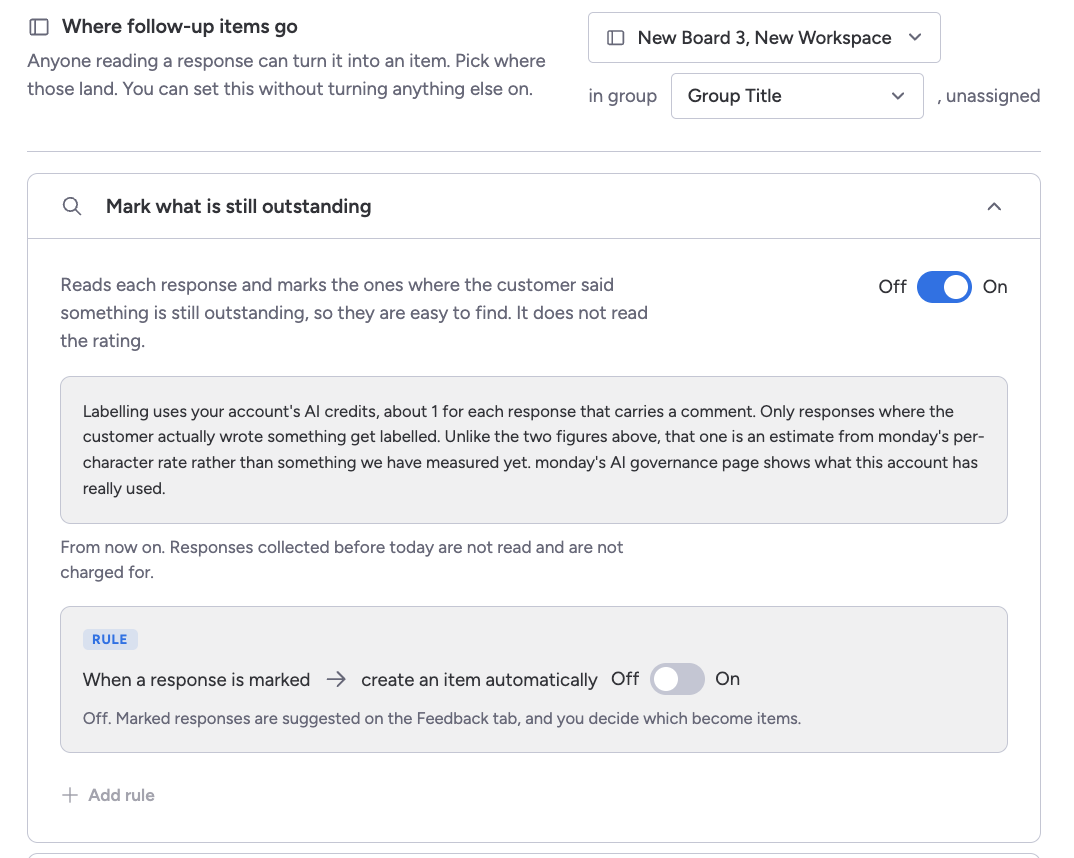
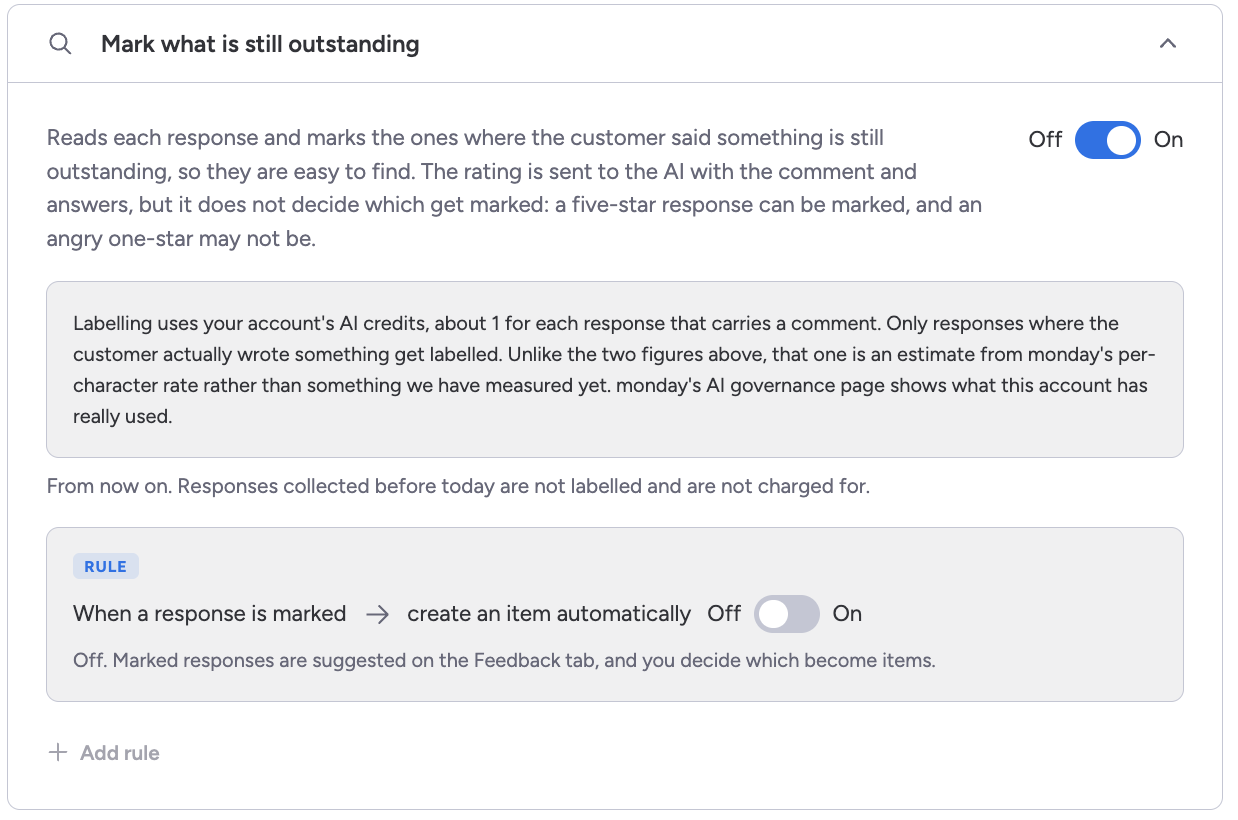
Clear the copy-change recaptures, and move 32 to match what it shows
Both retakes are in and checked by opening them, not by reasoning about
them. The labelling card now says the rating is sent but does not
decide, and 35 has scrolled past the card entirely.

⚠ 32 is cropped to the labelling card alone - the destination block
that gave the file its name is out of frame. The figure is moved from
§3's Where follow up items go into §7's Create them automatically,
where the rule box it now shows is the actual subject, with alt text
and caption rewritten. §3 keeps 39-config-groups, which frames the
destination in context, so nothing is left pictureless. The filename
still says destination and now shows labelling; not renamed unasked.

Every other capture shot on the configuration screen was opened, since
reasoning is how 35 was nearly missed last time. 39 is clean because
its Act-on sections are collapsed to summary lines - collapsed sections
cannot carry stale copy, which is a cheaper test than opening files.

Two unrelated findings, both in SCREENSHOTS.md:
  22-low-rating-alert publishes a real personal gmail address, legible,
  on a public page
  11-activate shows the app titled "CSAT Surveys" where 39 and 35 both
  show "Surveys" - stale, and cleared by the 2026-09-10 audit before
  anyone knew the name had changed

35-sidekick-skills arrived as "35-sidekick-skills .png". Second time
this has happened after 43; renamed again.

Claude-Session: https://claude.ai/code/session_018feMo3tg4cgPTaK7DzbNhe

diff --git a/survey-flow/user-guide.html b/survey-flow/user-guide.html
@@ -470,10 +470,6 @@
     <p>A follow up item is how one response becomes a piece of work somebody owns. Step 7 covers what one carries. The decision here is only where they land, and it is bigger than it looks.</p>
     <p><strong>Whoever can see the destination board can read what your customer wrote.</strong> That audience is the board's membership in monday.com, set by whoever administers that board, and it has nothing to do with who can open Survey Flow. Choosing a destination board is choosing an audience, so choose it deliberately rather than picking the board already in front of you.</p>
     <p>Leave the group empty and items land in the destination board's first group. Leave the board empty and nothing can be created at all: every route that would create an item refuses, and says why.</p>
-    <figure>
-      <img class="screenshot" src="../images/survey-flow/32-followup-destination.png" alt="The Where follow-up items go block, with its destination board and group pickers, sitting above the separate Mark what is still outstanding section">
-      <figcaption>The destination block, and the labelling section that follows it.</figcaption>
-    </figure>
 
     <h3>Test once, then switch it on</h3>
     <p><strong>The on/off switch is not part of Save.</strong> It takes effect the instant you toggle it, because it is a kill switch: an admin switching surveys off wants them to stop now, not after a Save that might be refused. Everything else on the screen waits for <em>Save changes</em>, which reads <em>Saved</em> when there is nothing left to save.</p>
@@ -632,6 +628,11 @@
     <p><strong>It will not run twice on the same response</strong>, and it leaves alone a response whose ticket has since been surveyed again, because those labels describe a round that no longer owns the ticket.</p>
     <p><strong>It is not retrospective.</strong> Turning the rule on changes what happens from then on, and does nothing to the responses you have already collected — those keep the button on the Feedback tab. Nothing is created in a burst at the moment you switch it on, which is deliberate rather than a limitation.</p>
     <p>An item appears shortly after the response is submitted, rather than on a schedule you can set or predict.</p>
+
+    <figure>
+      <img class="screenshot" src="../images/survey-flow/32-followup-destination.png" alt="The Mark what is still outstanding card: the labelling toggle switched on, the note about AI credits, and the rule reading when a response is marked, create an item automatically, switched off">
+      <figcaption>The labelling card, with the automatic creation rule switched off beneath it.</figcaption>
+    </figure>
 
     <h3>They stay after you uninstall</h3>
     <p>Nothing in Survey Flow deletes a follow up item, at uninstall or at any other time. They are items on your board, like a task somebody wrote by hand, and they stay there with the comment inside them until someone on your team removes them. See <a href="#uninstall">Before you uninstall</a>.</p>

diff --git a/SCREENSHOTS.md b/SCREENSHOTS.md
@@ -84,20 +84,49 @@ itself rather than against what was requested. Where they differed, the words we
 renamed. A space in a filename does not fail loudly: the reference simply does not resolve and the
 page shows a broken image.
 
-## ⚠ Pending a copy change — two recaptures, already identified
+## ✅ The copy change landed — both recaptures checked by looking
 
-The labelling hint **"It does not read the rating" is false** and is being fixed: the rating is sent
-to the model, it just does not decide. When the new wording lands, **two captures frame the old one**
-and both need retaking:
+`32` and `35` were retaken on 2026-09-11 and the pending item is cleared. The card now reads "The
+rating is sent to the AI with the comment and answers, but it does not decide which get marked: a
+five-star response can be marked, and an angry one-star may not be", and "are not labelled" in place
+of "are not read". `35` has scrolled past the card entirely.
 
-- **`32-followup-destination`** — the *Mark what is still outstanding* card is the main subject, and
-  the sentence is the second line of its description.
-- **`35-sidekick-skills`** — less obvious. The Sidekick panel is the subject, but the configuration
-  screen behind it shows the same card and the same sentence, in full, on the left of frame.
+**I checked every other capture shot on the configuration screen rather than reasoning about which
+could be affected**, since reasoning is how `35` was nearly missed the first time:
 
-⚠ `35` is the one that would be missed. Nobody recapturing a copy change goes looking in a
-screenshot of a chat panel — the stale text is in the background of a picture taken for something
-else entirely. Noted here now, while both are known, rather than left to be found.
+- `39-config-groups` — **clean, and for a reason worth recording.** Its Act-on-what-comes-back
+  sections are collapsed to summary lines ("On, suggesting"), so no card description is in frame.
+  Collapsed sections are immune to copy changes; expanded ones are not. That is the test to apply
+  next time rather than opening every file.
+- `22-low-rating-alert`, `11-activate` — no labelling card in frame. Both turned up something else.
+
+## ⚠ `32-followup-destination` is no longer what its name says
+
+The recapture is cropped to the **labelling card alone**. The *Where follow-up items go* block, which
+was the point of the original and the reason for the filename, is out of frame.
+
+- The figure has been **moved** out of §3's *Where follow up items go* and into §7's *Create them
+  automatically*, where its content — the rule box — is exactly the subject. Alt text and caption
+  rewritten to the card.
+- §3's *Where follow up items go* now carries no figure of its own. Not urgent: `39-config-groups`
+  is in the same section and frames the destination block in context. A tighter crop would be better
+  but nothing is broken.
+- ⚠ **The filename now lies.** It says destination and shows labelling. Renaming it is the clean fix
+  and frees the name for a real destination capture — say the word. Left as-is rather than renamed
+  unasked, because a rename breaks any local copy or note that refers to it.
+
+## ⚠ Two things found while looking, neither about the copy change
+
+**`22-low-rating-alert` publishes a real personal email address.** The rule's notify target is a named
+person with `phamphuoc311093@gmail.com` beneath it, legible at full size, on a public page. It is not
+customer data — it appears to be your own — but it is a live address on a site scrapers read, and the
+guide's own callouts tell readers to treat this kind of thing carefully. Recapture with a seeded
+account, or say to pull the figure and I will.
+
+**`11-activate` is stale.** It shows the app titled **"CSAT Surveys"**; `39` and `35` both show
+**"Surveys"**. It also sits in an *Unsaved changes* state with greyed steps in the How it runs strip.
+It was on the audited-and-correct list from 2026-09-10 — cleared before anyone knew the product name
+had moved, which is the same failure the rule above describes.
 
 ## ⚠ Three prose errors the pictures caught
 Recorded here because it is the argument for taking them at all, not just for publishing them.
